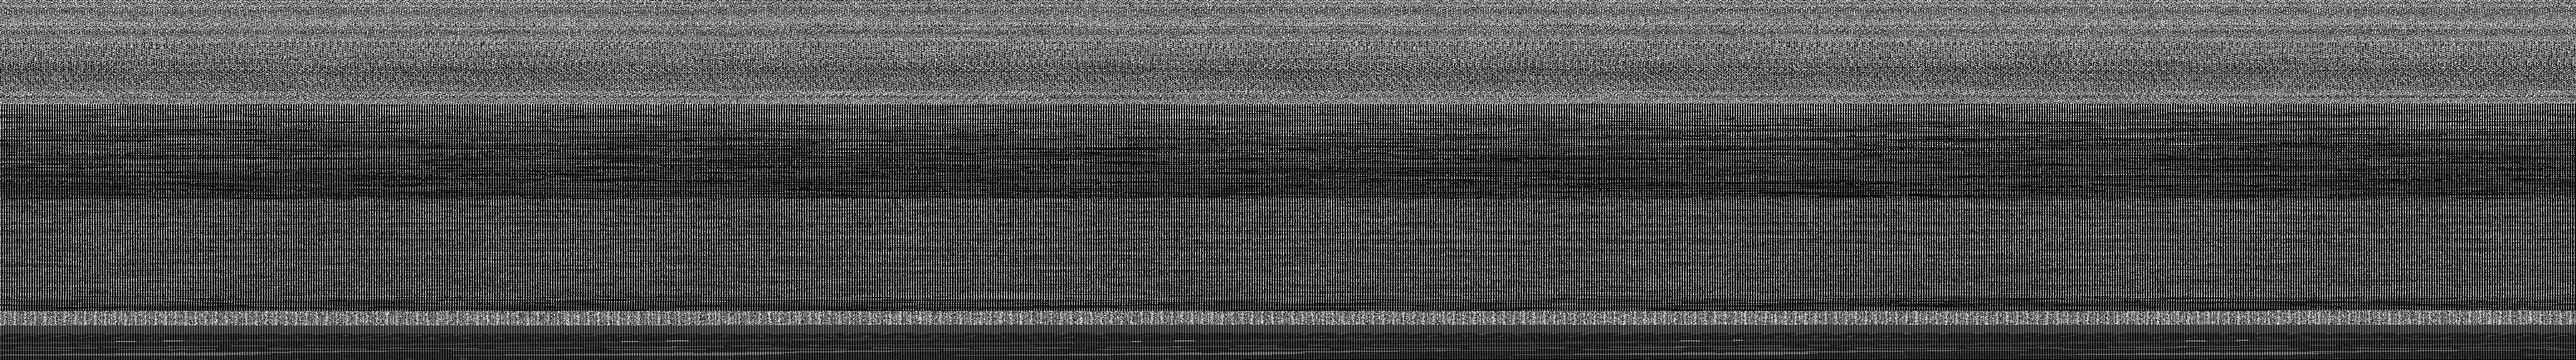
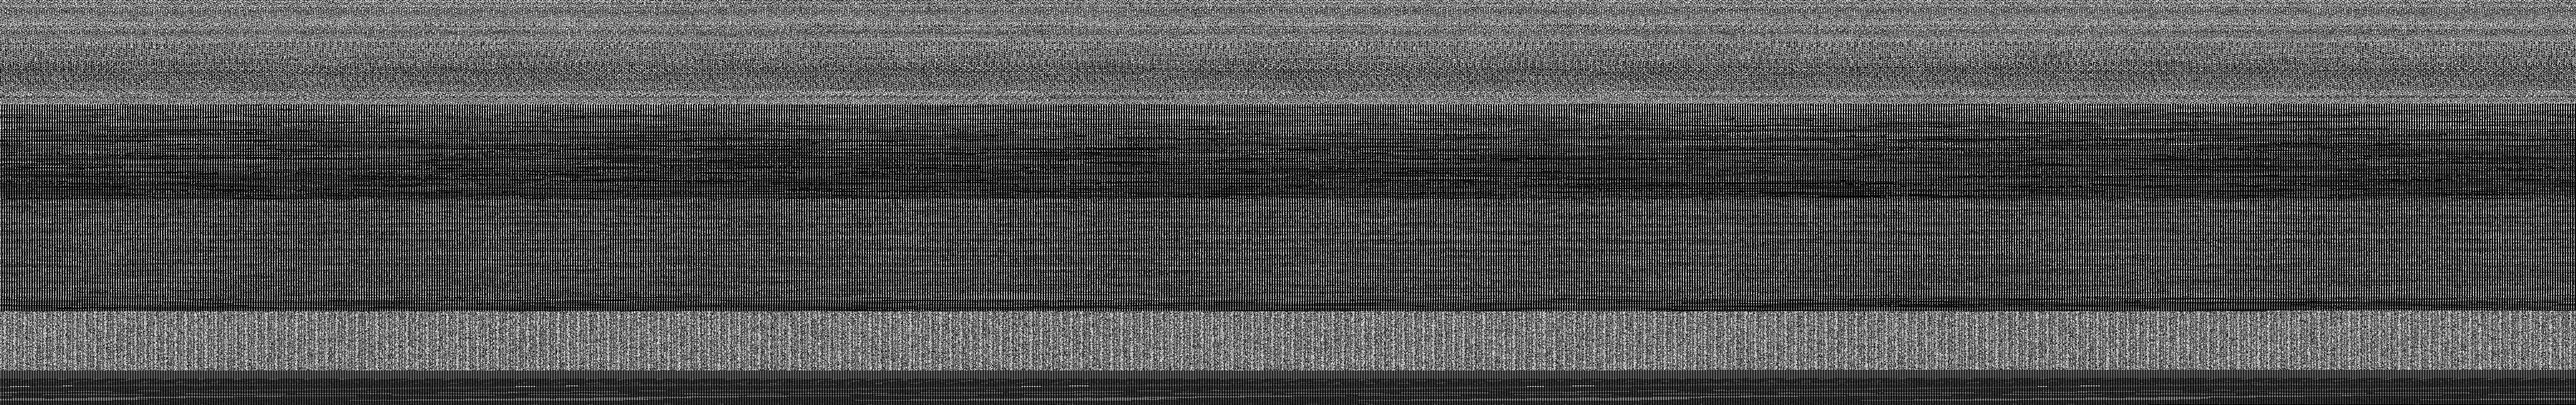
試作ターンパイク：地理院タイルの航空写真を地面に貼る・写真の森にだけ木を立てる・W 形ガードレール
Claude-Session: https://claude.ai/code/session_013CedJSVTiWzj3X7vzXBJB7

diff --git a/site/index.html b/site/index.html
@@ -1251,9 +1251,9 @@ const COURSES=[
   env:{terrain:0xb59a6a,ground:0x8a7550,skirt:[0xb8a179,0x6e5640,0x1e1a16],lamps:0,scatter:'none',far:'none',center:'yellow',over:{
     day:{fogD:.0012,fog:0xd8d4c4,sky:['#3f7fc4','#9cc3e4','#ead9b8']},dusk:{fogD:.0016},night:{fogD:.0022,hemi:[0x5a6290,0x141418,1.2]}}}},
  {id:'turnpike',since:'2026-10-26',name:'箱根ターンパイク',en:'HAKONE TURNPIKE',tag:'実在の道 ・ ヒルクライム',diff:2,laps:1,ai:1.0,W:11,runoff:2.2,hw0:5.5,
-  pts:TPK_DATA.pts,bank:TPK_DATA.bank,p2p:{fin:3281,runin:300},terrain:{url:'tracks/turnpike/terrain.json'},
+  pts:TPK_DATA.pts,bank:TPK_DATA.bank,p2p:{fin:3281,runin:300},terrain:{url:'tracks/turnpike/terrain.json'},geo:{lat0:35.2423553,lon0:139.1398212},
   desc:'小田原の料金所から大観山まで、約13km・標高差約950mを一気に駆け上がる峠の有料道路（片道のタイムアタック）。道の形は OpenStreetMap、高さと周りの山は国土地理院の標高データから作った。前半は勾配7〜10%の上りが続く中高速コーナー、後半は尾根沿いのアップダウン。晴れた日は相模湾や富士山が見える。',
-  credit:{title:'道路の形・標高の地図データ',author:'© OpenStreetMap contributors／国土地理院',url:'https://www.openstreetmap.org/copyright',license:'ODbL・国土地理院コンテンツ利用規約',licUrl:'https://www.gsi.go.jp/kikakuchousei/kikakuchousei40182.html'},
+  credit:{title:'道路の形（OpenStreetMap）・標高と航空写真（地理院タイル、加工して使用）',author:'© OpenStreetMap contributors／国土地理院',url:'https://maps.gsi.go.jp/development/ichiran.html',license:'ODbL・国土地理院コンテンツ利用規約',licUrl:'https://www.gsi.go.jp/kikakuchousei/kikakuchousei40182.html'},
   env:{terrain:0x2f4a2a,ground:0x22331e,lamps:0,scatter:'none',far:'none',center:'yellow',over:{
     day:{fogD:.00011,fog:0xc8d8e6},dusk:{fogD:.00016},night:{fogD:.00028}}}},
 ];
@@ -1451,13 +1451,54 @@ function terrainShow(c){
     const land=new THREE.Mesh(g,new THREE.MeshLambertMaterial({vertexColors:true}));land.userData.terrain=true;grp.add(land);
     // forest: tall dark conifers (sugi / hinoki), base on the ground
     const tr=new Float32Array(b,o2,j.nt*4),cg=new THREE.ConeGeometry(2.3,13,6);cg.translate(0,6.2,0);
+    // the candidates are in random order: without the aerial photo every 3rd one stands (terrainPhoto replaces them with the
+    // ones on real forest)
     const trees=new THREE.InstancedMesh(cg,new THREE.MeshLambertMaterial({color:0xffffff}),j.nt),d=new THREE.Object3D(),cc=new THREE.Color();
-    for(let i=0;i<j.nt;i++){const s=tr[i*4+3];d.position.set(tr[i*4],tr[i*4+1]-0.3,tr[i*4+2]);d.rotation.set(0,i*2.4,0);d.scale.set(s,s*(0.9+((i*37)%11)/25),s);d.updateMatrix();
-      trees.setMatrixAt(i,d.matrix);cc.setHSL(0.30+((i*13)%7)/100,0.34,0.11+((i*29)%10)/140);trees.setColorAt(i,cc);}
+    const plant=(i,k,col)=>{const s=tr[i*4+3];d.position.set(tr[i*4],tr[i*4+1]-0.3,tr[i*4+2]);d.rotation.set(0,i*2.4,0);d.scale.set(s,s*(0.9+((i*37)%11)/25),s);d.updateMatrix();
+      trees.setMatrixAt(k,d.matrix);if(col)cc.copy(col);else cc.setHSL(0.30+((i*13)%7)/100,0.34,0.11+((i*29)%10)/140);trees.setColorAt(k,cc);};
+    let n=0;for(let i=0;i<j.nt;i+=3)plant(i,n++);trees.count=n;
     grp.add(trees);
+    if(c.geo)terrainPhoto(c,land,trees,tr,j.nt,plant);
     if(j.sea!=null){const sp=new THREE.PlaneGeometry(60000,60000);sp.rotateX(-Math.PI/2);const sea=new THREE.Mesh(sp,new THREE.MeshLambertMaterial({color:0x2a5f86}));sea.position.y=j.sea;grp.add(sea);}
     TERR[c.id]=grp;modelLoading[key]=false;if(C===c)world.add(grp);
   })).catch(e=>{modelLoading[key]='fail';delete TERR['_'+c.id];console.warn('terrain load failed',e);});
+}
+/* the real view (2026-10-25): GSI aerial photos (地理院タイル「全国最新写真（シームレス）」, zoom 15, ~3.9 m a pixel) over the
+   road and 1.5 km around it, loaded live from GSI by the page (no copy is stored; the course credit names the source and
+   that it is processed). The photo is laid on the ground with planar UVs (white vertex colours inside it, the map colours
+   outside with a white border so the edge blends), and the trees are re-planted only where the photo shows forest, tinted
+   by it. Where the page cannot reach GSI (the Claude build) nothing changes. */
+function terrainPhoto(c,land,trees,tr,nt,plant){
+  const g=c.geo,CXg=Math.cos(g.lat0*Math.PI/180)*111320,CZg=110574,M=c.p2p?c.p2p.n0:c.pts.length/3;
+  let x0=1e9,x1=-1e9,z0=1e9,z1=-1e9;for(let k=0;k<M;k++){const x=c.pts[k*3],z=c.pts[k*3+2];x0=Math.min(x0,x);x1=Math.max(x1,x);z0=Math.min(z0,z);z1=Math.max(z1,z);}
+  x0-=1500;x1+=1500;z0-=1500;z1+=1500;
+  const Z=15,PX=x=>((g.lon0+x/CXg)+180)/360*2**Z*256,PY=z=>{const r=(g.lat0-z/CZg)*Math.PI/180;return(1-Math.log(Math.tan(r)+1/Math.cos(r))/Math.PI)/2*2**Z*256;};
+  const X0=PX(x0),X1=PX(x1),Y0=PY(z0),Y1=PY(z1),W=Math.ceil(X1-X0),H=Math.ceil(Y1-Y0);
+  const cv=document.createElement('canvas');cv.width=W;cv.height=H;const ctx=cv.getContext('2d');ctx.fillStyle='#34452c';ctx.fillRect(0,0,W,H);
+  const jobs=[];
+  for(let ty=Math.floor(Y0/256);ty<=Math.floor(Y1/256);ty++)for(let tx=Math.floor(X0/256);tx<=Math.floor(X1/256);tx++)
+    jobs.push(new Promise(res=>{const im=new Image();im.crossOrigin='anonymous';im.onload=()=>{ctx.drawImage(im,tx*256-X0,ty*256-Y0);res(1);};im.onerror=()=>res(0);
+      im.src='https://cyberjapandata.gsi.go.jp/xyz/seamlessphoto/'+Z+'/'+tx+'/'+ty+'.jpg';}));
+  Promise.all(jobs).then(r=>{
+    const ok=r.reduce((a,b)=>a+b,0);if(ok<jobs.length*0.7){console.warn('aerial photo: '+ok+'/'+jobs.length+' tiles');return;}
+    let px;try{px=ctx.getImageData(0,0,W,H).data;}catch(e){return;}
+    ctx.strokeStyle='#fff';ctx.lineWidth=6;ctx.strokeRect(0,0,W,H);
+    // ground: planar UVs over the photo, white inside it so the photo shows as it is
+    const geo=land.geometry,pos=geo.attributes.position.array,ca=geo.attributes.color.data.array,nv=pos.length/3,uv=new Float32Array(nv*2),col=new Uint8Array(nv*3);
+    for(let i=0;i<nv;i++){const u=(pos[i*3]-x0)/(x1-x0),v=(pos[i*3+2]-z0)/(z1-z0),inside=u>0.004&&u<0.996&&v>0.004&&v<0.996;
+      uv[i*2]=Math.min(1,Math.max(0,u));uv[i*2+1]=1-Math.min(1,Math.max(0,v));
+      for(let k=0;k<3;k++)col[i*3+k]=inside?255:ca[i*4+k];}   // the map colours (RGBA, 4 bytes a vertex) outside the photo
+    geo.setAttribute('uv',new THREE.BufferAttribute(uv,2));geo.setAttribute('color',new THREE.BufferAttribute(col,3,true));
+    const tex=new THREE.CanvasTexture(cv);tex.anisotropy=renderer.capabilities.getMaxAnisotropy();
+    land.material.map=tex;land.material.needsUpdate=true;
+    // trees only on forest, coloured like it
+    const cc=new THREE.Color();let n=0;
+    for(let i=0;i<nt&&n<15000;i++){const x=tr[i*4],z=tr[i*4+2],u=(x-x0)/(x1-x0),v=(z-z0)/(z1-z0);if(u<=0||u>=1||v<=0||v>=1)continue;
+      const o=(Math.floor(v*H)*W+Math.floor(u*W))*4,R=px[o],G=px[o+1],B=px[o+2];
+      if(!(G>R+3&&G>=B-4&&R+G+B<330))continue;
+      cc.setRGB(R/255*0.55,G/255*0.62,B/255*0.5);plant(i,n++,cc);}
+    if(n>500){trees.count=n;trees.instanceMatrix.needsUpdate=true;if(trees.instanceColor)trees.instanceColor.needsUpdate=true;}
+  });
 }
 function loadTrack(c){
   const key='trk:'+c.id;
@@ -1669,7 +1710,11 @@ function buildCourse(ci){
   const shoulder=new THREE.MeshLambertMaterial({color:0x2a2620,side:THREE.DoubleSide});
   ribbon(i=>[HALF,BK[i]*HALF-0.02,RAIL+0.4,BK[i]*(RAIL+0.4)-0.03],shoulder,10,R0,R1);ribbon(i=>[-HALF,-BK[i]*HALF-0.02,-RAIL-0.4,-BK[i]*(RAIL+0.4)-0.03],shoulder,10,R0,R1);
   const railM=new THREE.MeshLambertMaterial({color:0xb9bec8,emissive:0x1a1c24,side:THREE.DoubleSide});
-  ribbon(i=>[RAIL,BK[i]*RAIL+0.45,RAIL,BK[i]*RAIL+0.85],railM,10,R0,R1);ribbon(i=>[-RAIL,-BK[i]*RAIL+0.45,-RAIL,-BK[i]*RAIL+0.85],railM,10,R0,R1);
+  if(C.terrain){   // a W-beam rail like the real road's: galvanised, corrugated
+    const rm=new THREE.MeshStandardMaterial({color:0xc4c9d0,metalness:.55,roughness:.42,side:THREE.DoubleSide});if(envTex){rm.envMap=envTex;rm.envMapIntensity=.8;}
+    const WB=[[0,.44],[.07,.52],[0,.6],[.07,.68],[0,.76]];
+    for(const sd of[1,-1])for(let k=0;k<4;k++){const a=WB[k],b=WB[k+1];ribbon(i=>[sd*(RAIL-a[0]),BK[i]*sd*RAIL+a[1],sd*(RAIL-b[0]),BK[i]*sd*RAIL+b[1]],rm,10,R0,R1);}
+  }else{ribbon(i=>[RAIL,BK[i]*RAIL+0.45,RAIL,BK[i]*RAIL+0.85],railM,10,R0,R1);ribbon(i=>[-RAIL,-BK[i]*RAIL+0.45,-RAIL,-BK[i]*RAIL+0.85],railM,10,R0,R1);}
   if(!C.terrain){
     const gm=E.sea?new THREE.MeshLambertMaterial({color:E.seaCol,emissive:timeSel==='night'?0x02060c:0x0a1628}):new THREE.MeshLambertMaterial({color:E.ground});
     const ground=new THREE.Mesh(new THREE.PlaneGeometry(9000,9000),gm);

diff --git a/tools/real_course.py b/tools/real_course.py
@@ -153,9 +153,10 @@ np.savez(D + 'mesh.npz', P=P, VX=VX, VY=VY, VB=VB, VBR=VBR, start=len(RY), fin=l
 # trees: forest in a band beside the road, on the ground
 trees = []
 interp_simplex = tri
-cand = np.c_[rng.uniform(VX[:, 0].min() - 600, VX[:, 0].max() + 600, 90000), rng.uniform(VX[:, 1].min() - 600, VX[:, 1].max() + 600, 90000)]
+cand = np.c_[rng.uniform(VX[:, 0].min() - 600, VX[:, 0].max() + 600, 260000), rng.uniform(VX[:, 1].min() - 600, VX[:, 1].max() + 600, 260000)]
 dd, kk = road.query(cand)
-w = (dd > HW + 4.5) & (dd < 260) & (rng.random(len(cand)) < np.clip(1.25 - dd / 260, 0, 1))
+# candidates out to 450 m (thinning with distance); the game keeps the ones on forest in the aerial photo, or every 3rd without it
+w = (dd > HW + 4.5) & (dd < 450) & (rng.random(len(cand)) < np.clip(1.3 - dd / 450, 0, 1))
 cand = cand[w]
 si = tri.find_simplex(cand); cand = cand[si >= 0]; si = si[si >= 0]
 r = cand - tri.transform[si, 2]; bc = np.einsum('ijk,ik->ij', tri.transform[si, :2], r); bc = np.c_[bc, 1 - bc.sum(1)]
@@ -163,7 +164,7 @@ hy = (P[T[si], 2] * bc).sum(1)
 for (x, z), y in zip(cand, hy):
     if y < 2: continue
     trees.append((x, y, z, rng.uniform(0.75, 1.6)))
-trees = np.array(trees[:9000], np.float32)
+trees = np.array(trees[:24000], np.float32)   # random order: any prefix is an even sample
 print('trees', len(trees))
 
 # far land (beyond 7 km of the middle of the road) drawn closer and lower so it stays inside the camera range
